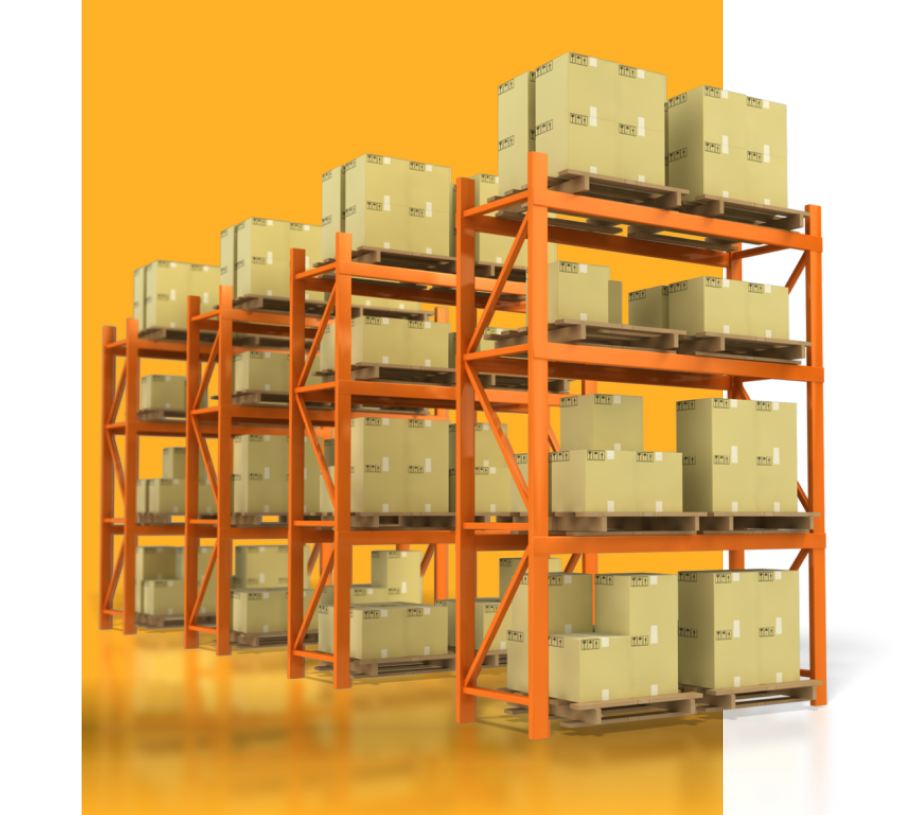
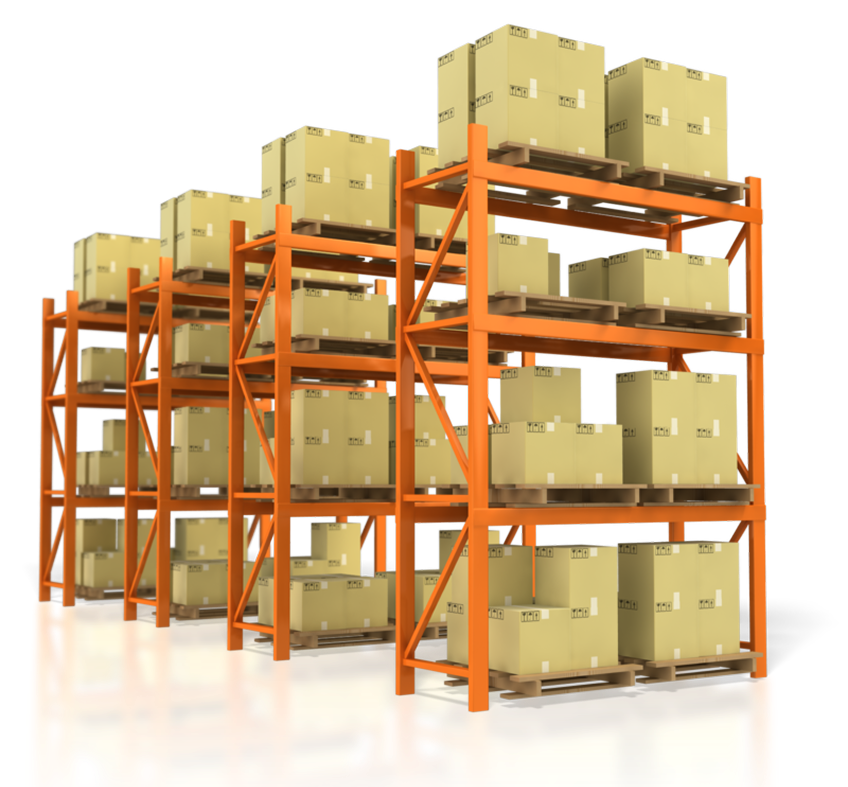
Merge pull request #17 from manalimran-12/responsive1
changes

Pull request: changes

diff --git a/src/Components/Warehouse.jsx b/src/Components/Warehouse.jsx
@@ -10,7 +10,8 @@ import { useRouter } from "next/navigation";
 
 const WarehouseSupplySection = () => {
   const [showSecondImage, setShowSecondImage] = useState(false);
-const router = useRouter()
+  const router = useRouter();
+
   useEffect(() => {
     const interval = setInterval(() => {
       setShowSecondImage((prev) => !prev);
@@ -20,56 +21,77 @@ const router = useRouter()
   }, []);
 
   return (
-    <section className="bg-[#252525] py-16 px-6 md:px-16 relative text-white">
-      <div className="max-w-7xl mx-auto grid grid-cols-1 md:grid-cols-2 gap-10 items-center">
-
-        <div className="relative flex justify-center h-[550px] overflow-hidden">
+    <section className="bg-[#252525] py-8 sm:py-12 md:py-16 px-4 sm:px-6 md:px-16 relative text-white">
+      <div className="max-w-7xl mx-auto grid grid-cols-1 md:grid-cols-2 gap-6 md:gap-10 items-center">
+        {/* Image Container */}
+        <motion.div
+          initial={{ y: 50, opacity: 0 }}
+          animate={{ y: 0, opacity: 1 }}
+          transition={{ duration: 0.4, ease: "easeInOut" }}
+          className="relative w-full aspect-[4/3] bg-yellow-500 overflow-visible order-2 md:order-1 h-[600]"
+        >
           <AnimatePresence mode="wait">
             {showSecondImage ? (
               <motion.div
                 key="second-image"
-                initial={{ y: 100 }}
-                animate={{ opacity: 1, y: 0, scale: [1, 1.05, 1] }}
-                exit={{ y: -100 }}
-                transition={{ duration: 0.8, ease: "easeInOut" }}
-                className="absolute"
+                initial={{ y: 50, opacity: 0 }}
+                animate={{ y: 0, opacity: 1 }}
+                exit={{ y: -50, opacity: 0 }}
+                transition={{ duration: 0.2, ease: "easeInOut" }}
+                className="absolute inset-0"
               >
-                <Image src={warehouse2} alt="Warehouse Supply 2" width={700} height={550} className="w-full h-auto" />
+                <Image
+                  src={warehouse2}
+                  alt="Warehouse Supply 2"
+                  fill
+                  sizes="(max-width: 768px) 100vw, 50vw"
+                  priority
+                  className="object-cover object-center transform scale-110"
+                />
               </motion.div>
             ) : (
               <motion.div
                 key="first-image"
-                initial={{ y: -100 }}
-                animate={{ opacity: 1, y: 0, scale: [1, 1.05, 1] }}
-                exit={{ y: 100 }}
-                transition={{ duration: 0.8, ease: "easeInOut" }}
-                className="absolute"
+                initial={{ y: -50, opacity: 0 }}
+                animate={{ y: 0, opacity: 1 }}
+                exit={{ y: 50, opacity: 0 }}
+                transition={{ duration: 0.2, ease: "easeInOut" }}
+                className="absolute inset-0"
               >
-                <Image src={warehouse} alt="Warehouse Supply 1" width={700} height={550} className="w-full h-auto" />
+                <Image
+                  src={warehouse}
+                  alt="Warehouse Supply 1"
+                  fill
+                  sizes="(max-width: 768px) 100vw, 50vw"
+                  priority
+                  className="object-cover object-center transform scale-110"
+                />
               </motion.div>
             )}
           </AnimatePresence>
-        </div>
+        </motion.div>
 
+        {/* Content Container */}
         <motion.div
-          initial={{ x: 50 }}
-          animate={{ opacity: 1, x: 0 }}
-          transition={{ duration: 0.8 }}
-          className="text-left"
+          initial={{ y: 50, opacity: 0 }}
+          animate={{ y: 0, opacity: 1 }}
+          transition={{ duration: 0.8, ease: "easeInOut" }}
+          className="text-left order-1 md:order-2"
         >
           <button className="bg-[#323232] text-yellow-500 px-4 py-1 text-sm font-bold rounded">
             PRODUCT SUPPLY
           </button>
-          <h2 className="text-2xl md:text-3xl mt-4 flex items-center flex-wrap">
-            <span>{data.p.heading}
 
-              <span className="inline-flex relative w-[185px] h-[30px] ml-2 overflow-hidden">
+          <h2 className="text-xl sm:text-2xl md:text-3xl mt-4">
+            <span className="inline-flex flex-wrap items-center">
+              {data.p.heading}
+              <span className="inline-flex relative w-[150px] sm:w-[185px] h-[30px] ml-2 overflow-hidden">
                 <AnimatePresence mode="wait">
                   <motion.span
                     key={showSecondImage ? "BIGSTORE" : "WAREHOUSE"}
-                    initial={{ y: showSecondImage ? 20 : -20, opacity: 0 }}
+                    initial={{ y: 20, opacity: 0 }}
                     animate={{ y: 0, opacity: 1 }}
-                    exit={{ y: showSecondImage ? -20 : 20, opacity: 0 }}
+                    exit={{ y: -20, opacity: 0 }}
                     transition={{ duration: 0.6, ease: "easeInOut" }}
                     className="text-yellow-500 absolute w-full text-left"
                   >
@@ -80,18 +102,17 @@ const router = useRouter()
             </span>
           </h2>
 
-
-
-          <p className="text-gray-300 mt-4 leading-relaxed">
+          <p className="text-gray-300 mt-4 leading-relaxed text-sm sm:text-base">
             {data.p.p1}
           </p>
-          <p className="text-gray-300 mt-4 leading-relaxed">
+          <p className="text-gray-300 mt-4 leading-relaxed text-sm sm:text-base">
             {data.p.p2}
           </p>
+
           <motion.button
             whileHover={{ scale: 1.05 }}
             whileTap={{ scale: 0.95 }}
-            className="mt-6 bg-yellow-500 text-black px-6 py-3 rounded font-bold hover:bg-yellow-600 transition-colors"
+            className="mt-6 bg-yellow-500 text-black px-4 sm:px-6 py-2 sm:py-3 rounded font-bold hover:bg-yellow-600 transition-colors text-sm sm:text-base"
             onClick={() => { router.push("/contact") }}
           >
             {data.p.contact}

diff --git a/src/Components/VisionComponent.jsx b/src/Components/VisionComponent.jsx
@@ -1,28 +1,53 @@
 "use client";
 
-import React from "react";
+import React, { useState } from "react";
 import Image from "next/image";
-import data from "@/public/data.js"; 
-import steelImage from "../public/steel.png"; 
+import data from "@/public/data.js";
+import steelImage from "../public/steel.png";
 
 export default function VisionMission() {
-    return (
-      <div className="flex flex-col md:flex-row items-center bg-[#252525] text-white">
+  const [hovered, setHovered] = useState("vision");
+
+  return (
+    <div className="bg-[#252525] text-white">
+      {/* Image on small screens */}
+      <div className="block md:hidden w-full">
+        <Image
+          src={steelImage}
+          alt="Steel Profiles"
+          className="w-full h-auto object-cover"
+        />
+      </div>
+
+      <div className="flex flex-col md:flex-row items-center">
         <div className="md:w-1/2 space-y-6 p-14 md:p-20 lg:p-24 xl:p-32">
-          <div  >
-            <h2 className="text-3xl font-bold">
+          <div
+            onMouseEnter={() => setHovered("vision")}
+            onMouseLeave={() => setHovered("vision")}
+            className={`transition-all duration-300 p-6 rounded-lg cursor-pointer transform ${hovered === "vision" ? "shadow-xl scale-105" : "scale-100"}`}
+            style={{ backgroundColor: hovered === "vision" ? "#323232" : "" }}
+          >
+            <h2 className={`text-3xl font-bold ${hovered === "vision" ? "text-yellow-500" : "text-white"}`}>
               {data.vision.title} <span className="text-yellow-500 font-bold">{data.vision.highlight}</span>
             </h2>
             <p className="text-gray-300 mt-2" dangerouslySetInnerHTML={{ __html: data.vision.content }}></p>
           </div>
-          <div className="bg-[#323232] p-6 rounded-md">
-            <h2 className="text-2xl font-bold">
-            {data.mission.title} <span className="text-yellow-500 font-bold">{data.mission.highlight}</span>
+
+          <div
+            onMouseEnter={() => setHovered("mission")}
+            onMouseLeave={() => setHovered("vision")}
+            className={`transition-all duration-300 p-6 rounded-lg cursor-pointer transform ${hovered === "mission" ? "shadow-xl scale-105" : "scale-100"}`}
+            style={{ backgroundColor: hovered === "mission" ? "#323232" : "#252525" }}
+          >
+            <h2 className={`text-2xl font-bold ${hovered === "mission" ? "text-yellow-500" : "text-white"}`}>
+              {data.mission.title} <span className="text-yellow-500 font-bold">{data.mission.highlight}</span>
             </h2>
             <p className="text-gray-300 mt-2">{data.mission.content}</p>
           </div>
         </div>
-        <div className="md:w-1/2">
+
+        {/* Image on medium and large screens */}
+        <div className="hidden md:block md:w-1/2">
           <Image
             src={steelImage}
             alt="Steel Profiles"
@@ -30,9 +55,6 @@ export default function VisionMission() {
           />
         </div>
       </div>
-    );
-  }
-  
-
- 
-
+    </div>
+  );
+}

diff --git a/src/Components/HomeProduct.jsx b/src/Components/HomeProduct.jsx
@@ -4,12 +4,13 @@ import React from "react";
 import Image from "next/image";
 import iso from "../public/background.png";
 import logo from "../public/profile.png";
+
 const ProductDetails = ({ product }) => {
   return (
     <section className="bg-[#252525] text-white py-12 relative">
       <div className="max-w-9xl mx-auto grid grid-cols-1 md:grid-cols-2 gap-10 items-center">
-
-        <div className="relative flex justify-center left-0">
+        {/* ISO Image for Medium & Large Screens */}
+        <div className="hidden md:flex relative justify-center left-0">
           <Image src={iso} alt={product.title} width={805} height={702} className="w-full h-auto object-contain object-left" />
         </div>
 
@@ -20,13 +21,11 @@ const ProductDetails = ({ product }) => {
 
           <h2 className="text-3xl md:text-5xl font-bold mt-4"
             dangerouslySetInnerHTML={{ __html: product.heading }}>
-
           </h2>
-
 
           <div className="mt-6 bg-[#323232] p-4 rounded-lg overflow-x-auto max-h-96 custom-scrollbar ">
             <table className="w-full text-left text-gray-300 border-collapse">
-              <thead >
+              <thead>
                 <tr className="border-b border-gray-600 text-sm">
                   <th className="bg-[#252525] py-3 px-4 font-bold">Technical Parameters</th>
                   <th className="bg-[#252525] py-3 px-4 font-bold">Detail</th>
@@ -45,9 +44,12 @@ const ProductDetails = ({ product }) => {
               </tbody>
             </table>
           </div>
-
         </div>
 
+        {/* ISO Image for Small Screens */}
+        <div className="block md:hidden relative flex justify-center left-0">
+          <Image src={iso} alt={product.title} width={805} height={702} className="w-full h-auto object-contain object-left" />
+        </div>
       </div>
       <div className="flex justify-center items-center mt-12 w-full">
         <Image src={logo} alt="AL JIDAR LOGO" width={300} height={80} className="w-full h-auto" />

diff --git a/src/Components/footer.jsx b/src/Components/footer.jsx
@@ -9,9 +9,9 @@ import layer from "../public/Layer_1.png";
 const Footer = () => {
     return (
         <div className="relative bg-[#323232]">
-            {/* Background Image - Visible on Medium+ Screens */}
+            {/* Background Image */}
             <div
-                className="absolute bottom-0 left-0 w-full h-[250px] md:h-[350px] bg-no-repeat bg-cover bg-center md:block"
+                className="absolute bottom-0 left-0 w-full h-[250px] md:h-[350px] bg-no-repeat bg-cover bg-center"
                 style={{
                     backgroundImage: `url(${footerBg.src})`,
                     backgroundPosition: "bottom center",
@@ -27,7 +27,7 @@ const Footer = () => {
                         <Image src={layer} alt="Company Logo" width={150} height={50} />
                         <p className="mt-2 text-xs md:text-base">{data.footer.companyDescription}</p>
 
-                        {/* Email Subscription - Responsive */}
+                        {/* Email Subscription */}
                         <div className="mt-4 flex flex-col md:flex-row items-center w-full max-w-[220px] md:max-w-[300px]">
                             <input
                                 type="email"
@@ -38,8 +38,6 @@ const Footer = () => {
                                 {data.footer.subscribeButton}
                             </button>
                         </div>
-
-
                     </div>
 
                     {/* Center - Contact Info */}
@@ -70,7 +68,6 @@ const Footer = () => {
                             </a>
                         </div>
                     </div>
-
                 </div>
             </div>
         </div>

diff --git a/src/Components/QualitySectionProp.jsx b/src/Components/QualitySectionProp.jsx
@@ -34,8 +34,8 @@ const QualitySectionProp = ({ heading, sections, bgColor, hover, isProductPage =
                         onMouseEnter={() => setHoveredSection(section.id)}
                         onMouseLeave={() => setHoveredSection("quality")}
                         className={`transition-all duration-300 px-6 py-6 rounded-lg cursor-pointer transform ${hoveredSection === section.id
-                                ? "shadow-xl scale-105 bg-opacity-80"
-                                : "bg-[#252525] scale-100"
+                            ? "shadow-xl scale-105 bg-opacity-80"
+                            : "bg-[#252525] scale-100"
                             }`}
                         style={{
                             backgroundColor: hoveredSection === section.id ? hover : "#323232",
@@ -43,8 +43,8 @@ const QualitySectionProp = ({ heading, sections, bgColor, hover, isProductPage =
                     >
                         <h3
                             className={`text-lg md:text-xl font-bold tracking-wide transition-colors duration-300 ${hoveredSection === section.id
-                                    ? "text-yellow-500"
-                                    : "text-white"
+                                ? "text-yellow-500"
+                                : "text-white"
                                 }`}
                         >
                             {section.title}